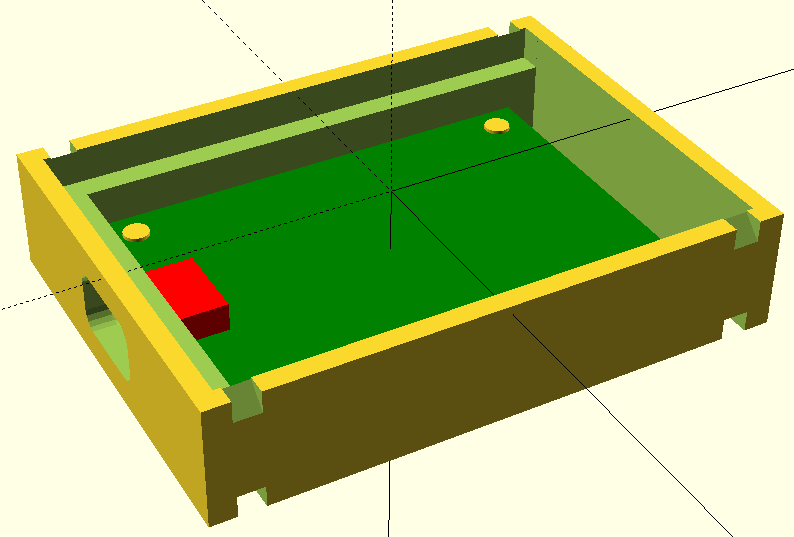
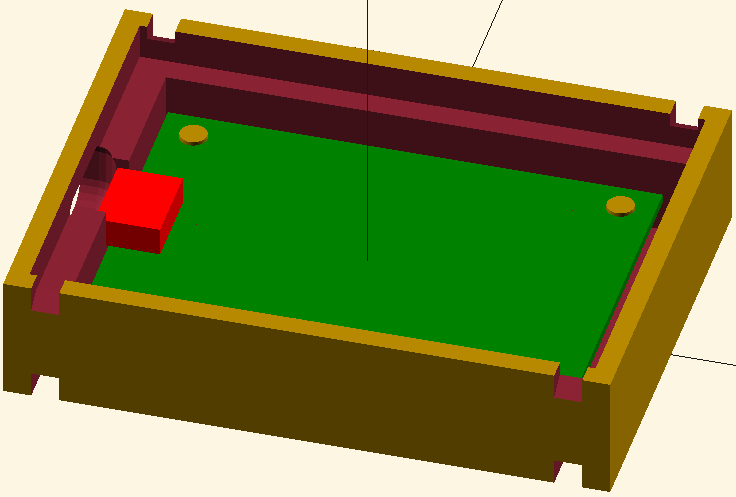
Made o-ring slots deeper, made usb hole open on top

diff --git a/README.md b/README.md
@@ -11,4 +11,6 @@ Cross section view, showing how the PCB sits inside.
 
 ![pic2](pic2.png)
 
-__Work in progress__
+## Status
+Fabricated it on a Cetus 3D printer with 0.2 mm layer height.
+After a minor revision, everything fits now as it should.
